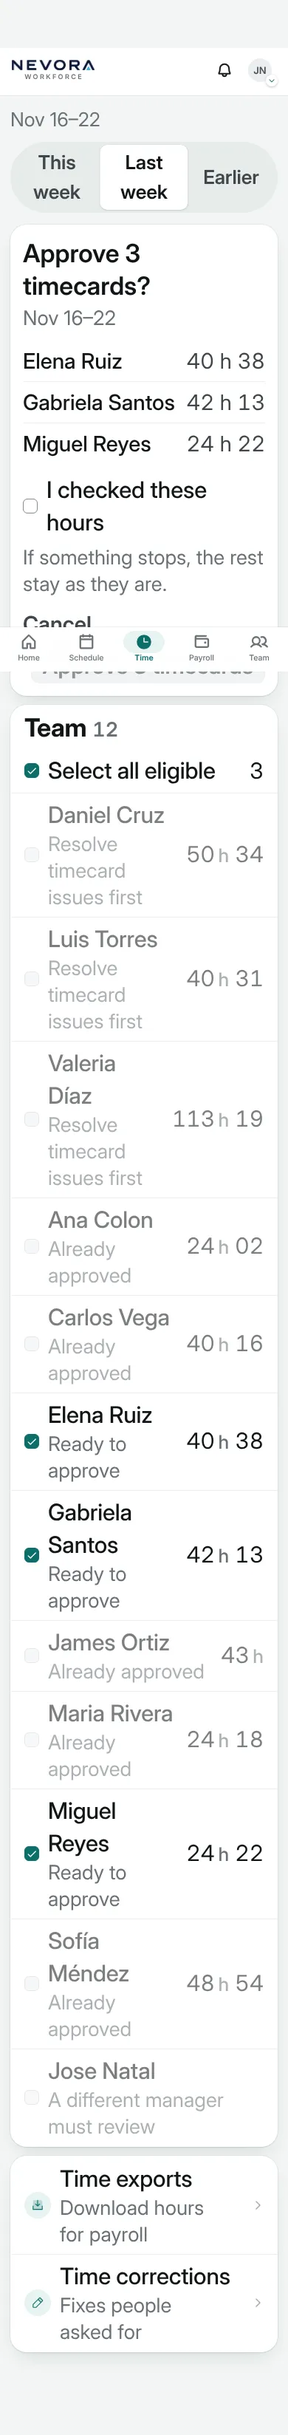
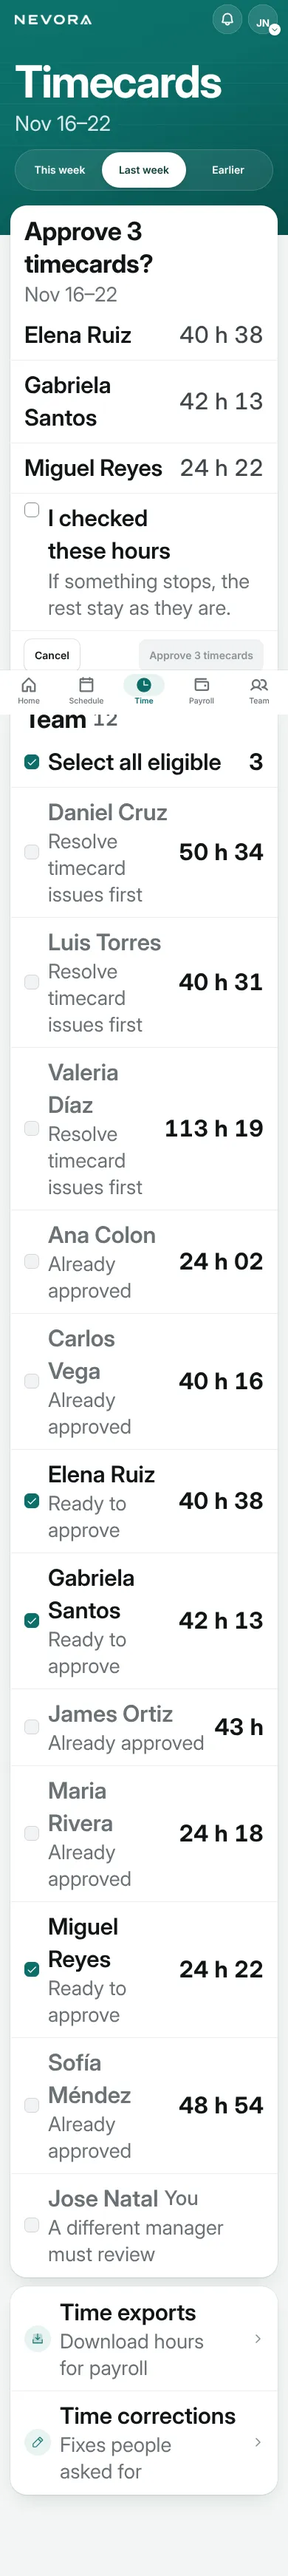
Timecards: captures of the Direction B select and review; report section
Owner and Elena; list, sheet, select and review at 390, 390 with 200% text and
1440, production build: all clean.

Claude-Session: https://claude.ai/code/session_01N2UNZD16e3tGkmNVUa96rw

diff --git a/docs/handoffs/2026-11-23-phase2-cloud/reports/timecards-final.md b/docs/handoffs/2026-11-23-phase2-cloud/reports/timecards-final.md
@@ -85,3 +85,19 @@ no clipped text and axe 0. `src/components` 3231/3231 pass.
 
 Before → after words: the disabled "Approve timecard" → "Approve after the waiting correction is reviewed."; the steps
 line "Approve each timecard, then finalize the week to lock it for payroll." steps aside while the reason line shows.
+
+## Jose's review, part 2: "on the select review page, this is not b2 COMPLIANT" (Nov 23, 2026)
+Commit 22c67232. Select and the selected set's review are rebuilt on the Direction B kit for Owner and Manager at every
+width; the selection rules, labels, steps and the approve and finalize actions are unchanged.
+- Phone: Select and the review are a Direction B screen: the band with the week segment (as on the list, Done on the
+  band), the set's card, the team as kit rows with the kit checkbox leading ("Select all eligible" first, people who
+  can't be picked greyed with their reason), and the Time tools card. Before: the corporate small title, week control and
+  rows.
+- Every width: the set's card is the kit's white raised card: the card heading ("3 selected" with the ready count, or
+  "Approve 3 timecards?" with the week), the steps line, the outlined action field (360px wide from 768), kit rows for
+  each timecard and its hours or result, "I checked these hours" as a kit row with its consequence under it, and the
+  kit buttons on the card edges (Cancel or Refresh left as the white outlined button, the main teal button right; full
+  width alone on a phone).
+- Production recapture: Owner and Elena; list, Luis Torres's sheet, select and review at 390, 390 with 200% text and
+  1440: 24 captures, no overflow, overlaps or clipped text, axe 0. `src/components` 3233/3233 pass.
+- Kit item left: the kit checkbox stays 20px at 200% text (a fixed size in b-foundation.css).
